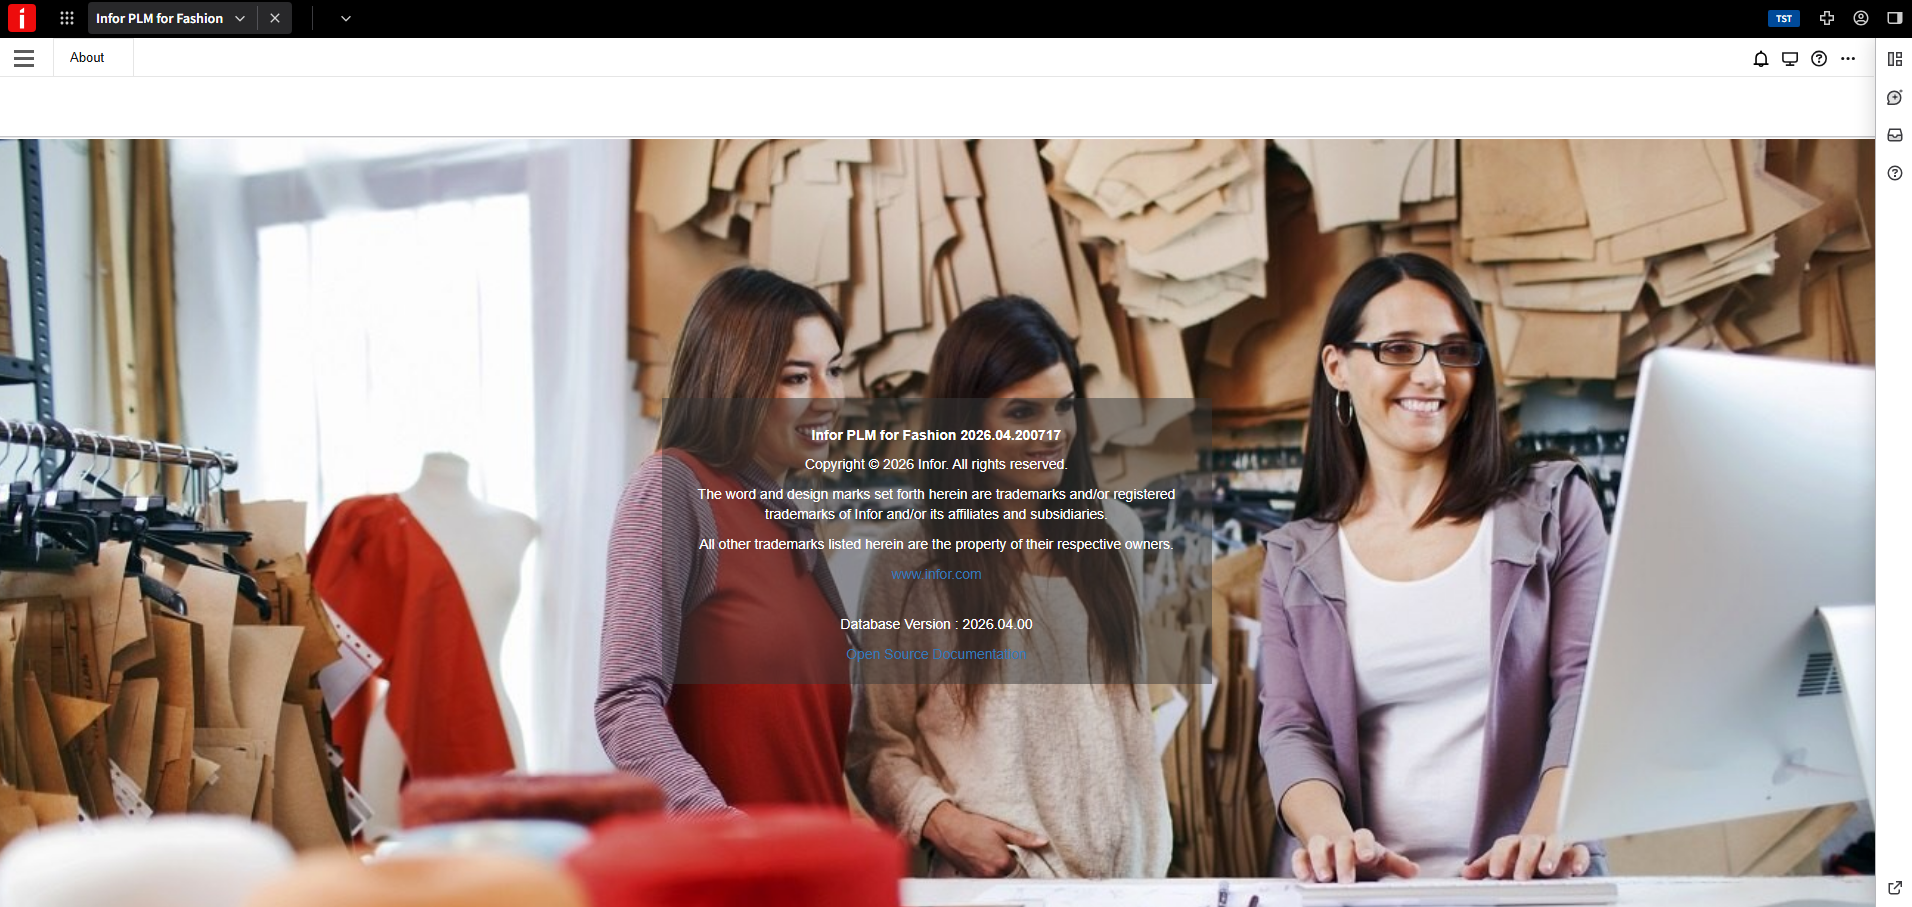
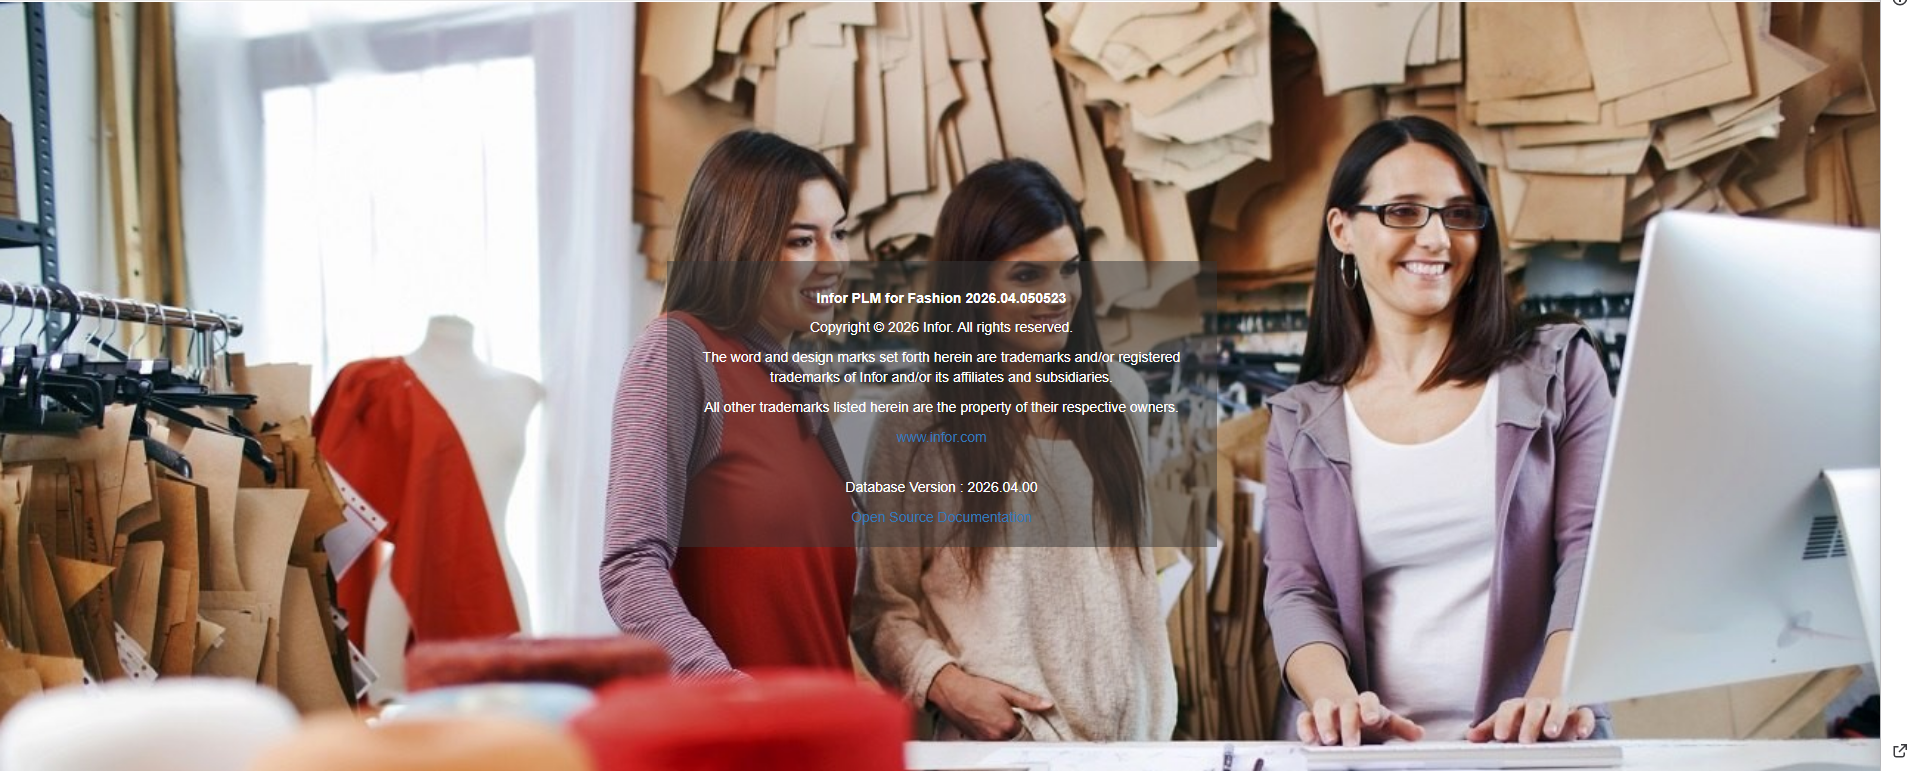
Updated project images and added show more to descriptions

diff --git a/src/components/ProjectCard.js b/src/components/ProjectCard.js
@@ -1,5 +1,6 @@
-import { Box, Image, Badge, Heading, Text, Stack, Button, HStack } from "@chakra-ui/react";
-import { ExternalLinkIcon } from "@chakra-ui/icons";
+import { useState } from "react";
+import { Box, Image, Badge, Heading, Text, Stack, Button, HStack, Collapse, Link } from "@chakra-ui/react";
+import { ExternalLinkIcon, ChevronDownIcon, ChevronUpIcon } from "@chakra-ui/icons";
 import { FaGithub } from "react-icons/fa";
 
 const ProjectCard = ({
@@ -9,93 +10,118 @@ const ProjectCard = ({
   image,
   repoLink,
   liveLink,
-}) => (
-  <Box
-    bg="white"
-    borderWidth="1px"
-    borderColor="gray.200"
-    borderRadius="2xl"
-    overflow="hidden"
-    transition="all 0.2s ease"
-    _hover={{ shadow: "lg", transform: "translateY(-2px)", borderColor: "gray.300" }}
-    display="flex"
-    flexDirection="column"
-  >
-    {image && (
-      <Box overflow="hidden">
-        <Image
-          src={image}
-          alt={title}
-          objectFit="cover"
-          w="100%"
-          h="180px"
-          transition="transform 0.3s ease"
-          _groupHover={{ transform: "scale(1.03)" }}
-        />
-      </Box>
-    )}
-    <Box p={5} flex="1" display="flex" flexDirection="column">
-      <Stack spacing={3} flex="1">
-        <Heading size="sm" fontWeight="700" color="gray.900" letterSpacing="-0.01em">
-          {title}
-        </Heading>
-        <Text fontSize="sm" color="gray.500" noOfLines={3} lineHeight="1.7">
-          {description}
-        </Text>
-        <HStack wrap="wrap" spacing={1} gap={1}>
-          {tech.map((t) => (
-            <Badge
-              key={t}
-              colorScheme="teal"
-              variant="subtle"
-              fontSize="xs"
-              px={2}
-              py={0.5}
-              borderRadius="md"
-              fontWeight="500"
-            >
-              {t}
-            </Badge>
-          ))}
-        </HStack>
-      </Stack>
-      {(liveLink || repoLink) && (
-        <HStack spacing={2} pt={4} mt="auto">
-          {liveLink && (
-            <Button
-              as="a"
-              href={liveLink}
-              target="_blank"
-              size="sm"
-              colorScheme="teal"
-              rightIcon={<ExternalLinkIcon />}
-              borderRadius="lg"
-              fontWeight="600"
-            >
-              Live
-            </Button>
-          )}
-          {repoLink && (
-            <Button
-              as="a"
-              href={repoLink}
-              target="_blank"
-              size="sm"
-              variant="outline"
-              borderRadius="lg"
-              fontWeight="600"
-              leftIcon={<FaGithub />}
-              borderColor="gray.300"
-              color="gray.700"
-              _hover={{ bg: "gray.50" }}
-            >
-              Code
-            </Button>
-          )}
-        </HStack>
+}) => {
+  const [expanded, setExpanded] = useState(false);
+
+  return (
+    <Box
+      bg="white"
+      borderWidth="1px"
+      borderColor="gray.200"
+      borderRadius="2xl"
+      overflow="hidden"
+      transition="all 0.2s ease"
+      _hover={{ shadow: "lg", transform: "translateY(-2px)", borderColor: "gray.300" }}
+      display="flex"
+      flexDirection="column"
+    >
+      {image && (
+        <Box overflow="hidden">
+          <Image
+            src={image}
+            alt={title}
+            objectFit="cover"
+            w="100%"
+            h="180px"
+            transition="transform 0.3s ease"
+            _groupHover={{ transform: "scale(1.03)" }}
+          />
+        </Box>
       )}
+      <Box p={5} flex="1" display="flex" flexDirection="column">
+        <Stack spacing={3} flex="1">
+          <Heading size="sm" fontWeight="700" color="gray.900" letterSpacing="-0.01em">
+            {title}
+          </Heading>
+          <Box>
+            <Collapse startingHeight="4.2em" in={expanded}>
+              <Text fontSize="sm" color="gray.500" lineHeight="1.7">
+                {description}
+              </Text>
+            </Collapse>
+            <Link
+              fontSize="xs"
+              color="teal.500"
+              fontWeight="600"
+              onClick={() => setExpanded(!expanded)}
+              display="inline-flex"
+              alignItems="center"
+              gap={0.5}
+              mt={1}
+              _hover={{ textDecoration: "none", color: "teal.600" }}
+            >
+              {expanded ? (
+                <>Show less <ChevronUpIcon /></>
+              ) : (
+                <>Show more <ChevronDownIcon /></>
+              )}
+            </Link>
+          </Box>
+          <HStack wrap="wrap" spacing={1} gap={1}>
+            {tech.map((t) => (
+              <Badge
+                key={t}
+                colorScheme="teal"
+                variant="subtle"
+                fontSize="xs"
+                px={2}
+                py={0.5}
+                borderRadius="md"
+                fontWeight="500"
+              >
+                {t}
+              </Badge>
+            ))}
+          </HStack>
+        </Stack>
+        {(liveLink || repoLink) && (
+          <HStack spacing={2} pt={4} mt="auto">
+            {liveLink && (
+              <Button
+                as="a"
+                href={liveLink}
+                target="_blank"
+                size="sm"
+                colorScheme="teal"
+                rightIcon={<ExternalLinkIcon />}
+                borderRadius="lg"
+                fontWeight="600"
+              >
+                Live
+              </Button>
+            )}
+            {repoLink && (
+              <Button
+                as="a"
+                href={repoLink}
+                target="_blank"
+                size="sm"
+                variant="outline"
+                borderRadius="lg"
+                fontWeight="600"
+                leftIcon={<FaGithub />}
+                borderColor="gray.300"
+                color="gray.700"
+                _hover={{ bg: "gray.50" }}
+              >
+                Code
+              </Button>
+            )}
+          </HStack>
+        )}
+      </Box>
     </Box>
-  </Box>
-);
+  );
+};
 
 export default ProjectCard;

diff --git a/src/components/Header.js b/src/components/Header.js
@@ -14,7 +14,7 @@ const Header = () => (
     borderBottom="1px solid"
     borderColor="gray.200"
   >
-    <Flex align="center" maxW="container.lg" mx="auto" px={6} py={4}>
+    <Flex align="center" maxW="container.xl" mx="auto" px={6} py={4}>
       <Link href="#landing" _hover={{ textDecoration: "none" }}>
         <Text fontWeight="700" fontSize="lg" color="gray.900" letterSpacing="-0.02em">
           Lenard To

diff --git a/src/components/Projects.js b/src/components/Projects.js
@@ -18,7 +18,7 @@ const Projects = () => (
         A selection of work I've built across different industries and stacks.
       </Text>
     </Box>
-    <SimpleGrid columns={[1, 2, 3]} spacing={6}>
+    <SimpleGrid columns={[1, 2, 3, 4]} spacing={6}>
       {projects.map((p) => (
         <ProjectCard key={p.id} {...p} />
       ))}

diff --git a/src/App.js b/src/App.js
@@ -10,7 +10,7 @@ function App() {
   return (
     <Box bg="#F8FAFC" minH="100vh">
       <Header />
-      <Container maxW="container.lg" pt="80px" pb={12}>
+      <Container maxW="container.xl" pt="80px" pb={12}>
         <Landing />
         <Projects />
         <Contact />
